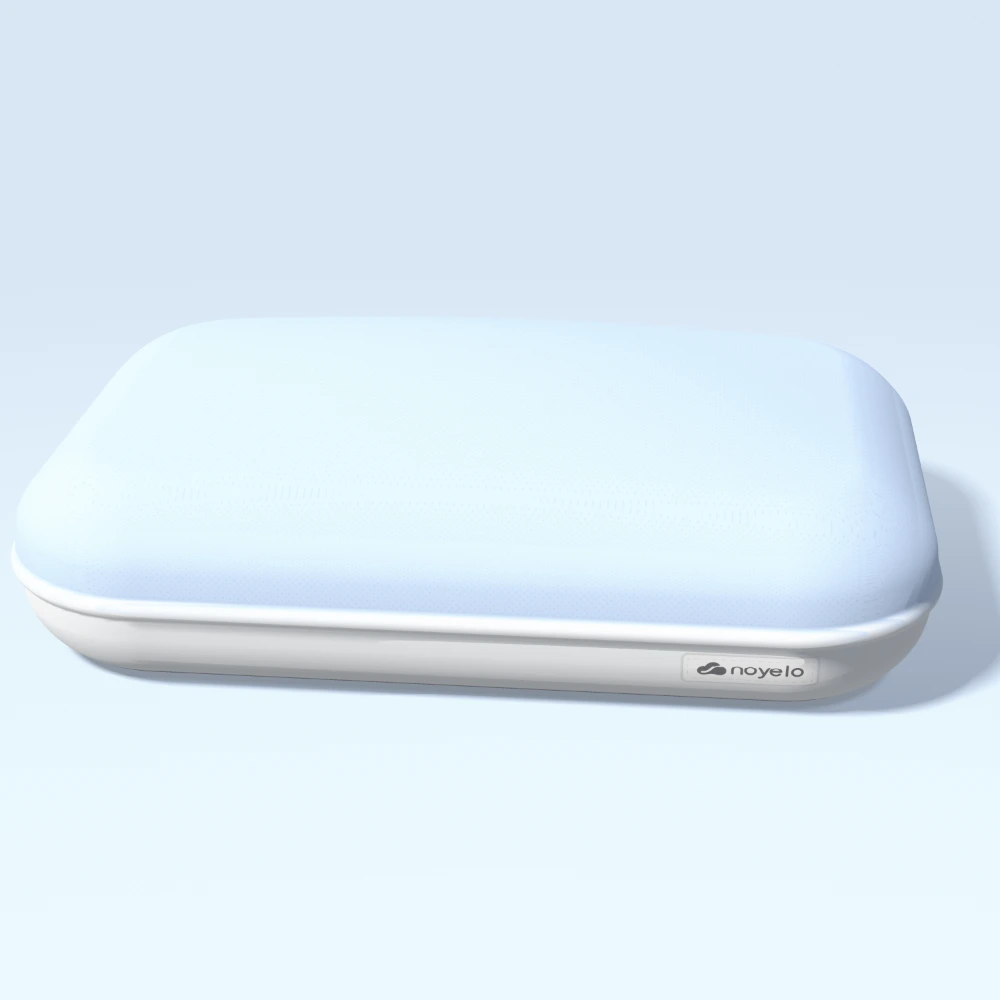
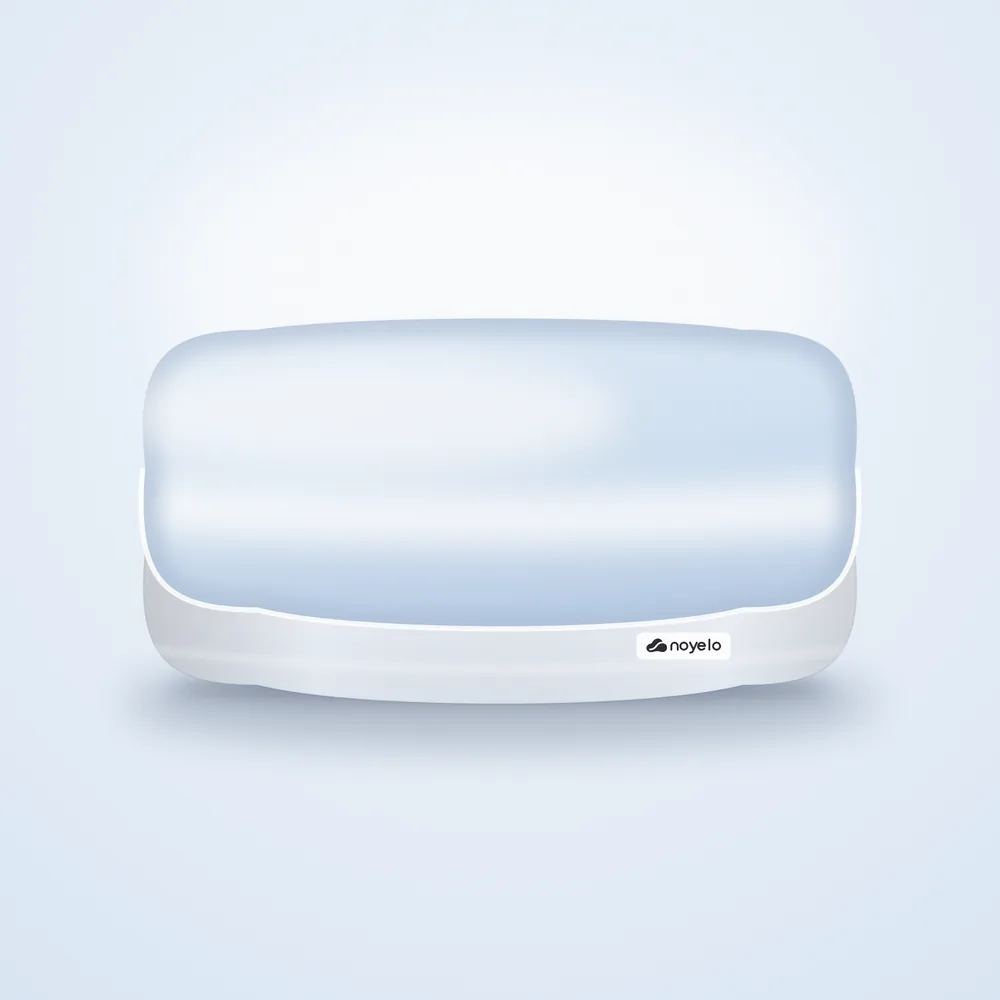
Restore the original homepage pillow renders (2bb8e2e), clouds fade into page white
- Hero, hero mobile, product on clouds, night scene and studio views restored
  1:1 from 2bb8e2e (the design the owner wants); extra 3200/3840/1440 sizes removed
- Hero images: bottom 9-13 % fade smoothly into #FFFFFF so the clouds run
  seamlessly into the white section below; hero image anchored to the bottom
- Product page cutaway render with layer hotspots stays

Changed region(s): [[0.062, 0.093, 1.0, 0.775]]

diff --git a/assets/noyelo-sections.css b/assets/noyelo-sections.css
@@ -1777,7 +1777,8 @@ body:has(.header-wrapper--overlay) main > .shopify-section:first-child .ny-hero-
 }
 
 .ny-hero--overlay .ny-hero__media > picture > img {
-  object-position: 70% 50%;
+  /* anchored to the bottom: the clouds fade into the page white exactly at the section edge */
+  object-position: 70% 100%;
 }
 
 @media screen and (max-width: 749px) {
